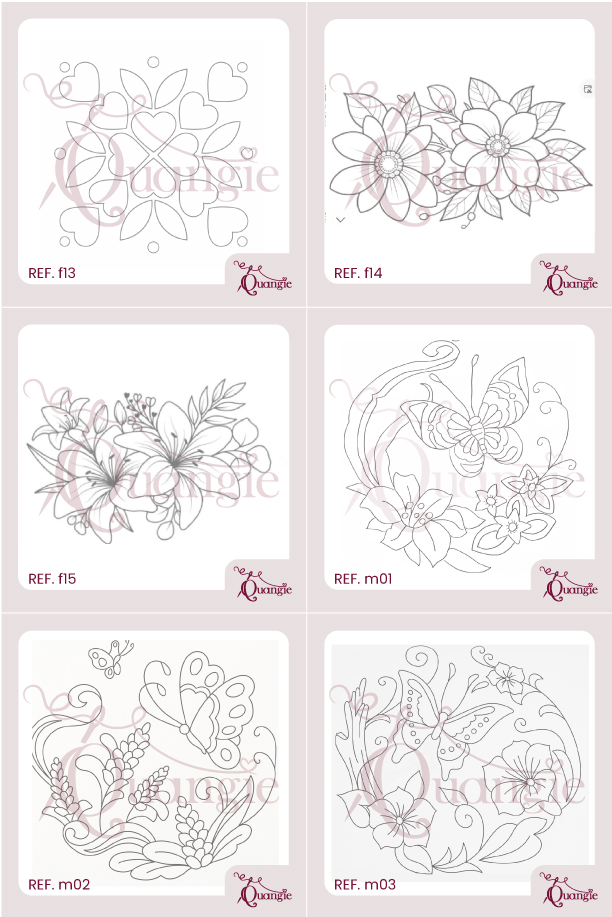
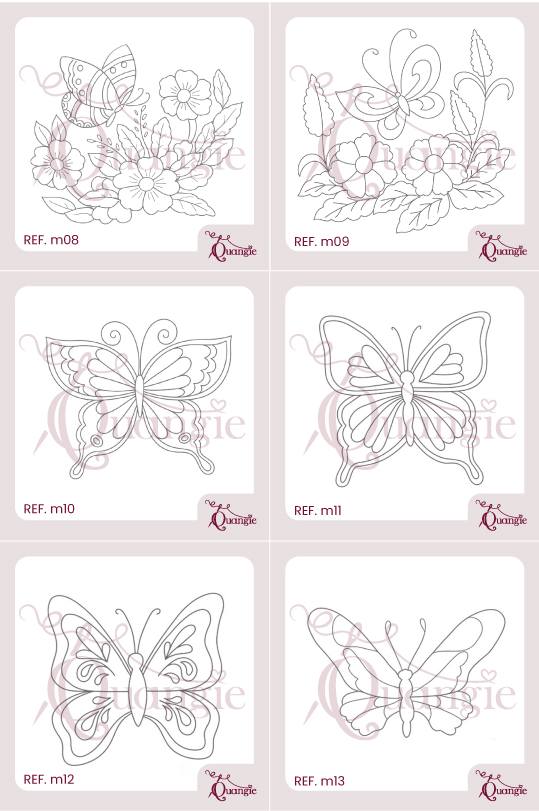
Galeria de imagenes

diff --git a/galeria-mariposas.html b/galeria-mariposas.html
@@ -1,0 +1,129 @@
+<!doctype html>
+<html lang="es">
+  <head>
+    <meta charset="utf-8">
+    <meta name="viewport" content="width=device-width, initial-scale=1">
+    <meta name="description" content="Galería ampliada de imágenes de Quangie">
+    <title>Quangie - Galería</title>
+
+    <link rel="shortcut icon" href="./assets/Logo.png">
+    <link rel="stylesheet" href="https://cdn.jsdelivr.net/npm/bootstrap@5.3.3/dist/css/bootstrap.min.css"
+      integrity="sha384-QWTKZyjpPEjISv5WaRU9OFeRpok6YctnYmDr5pNlyT2bRjXh0JMhjY6hW+ALEwIH" crossorigin="anonymous">
+    <link rel="stylesheet" href="style.css">
+  </head>
+  <body>
+    <header>
+      <nav class="navbar navbar-expand-lg border-bottom shadow-sm py-3">
+        <div class="container">
+          <a class="navbar-brand d-flex align-items-center" href="index.html">
+            <img src="./assets/Logotipo.png" alt="Quangie" style="height: 50px; width: auto;" class="me-2">
+          </a>
+          <button class="navbar-toggler" type="button" data-bs-toggle="collapse" data-bs-target="#navMenu"
+            aria-controls="navMenu" aria-expanded="false" aria-label="Toggle navigation">
+            <span class="navbar-toggler-icon"></span>
+          </button>
+          <div class="collapse navbar-collapse" id="navMenu">
+            <ul class="navbar-nav ms-auto mb-2 mb-lg-0">
+              <li class="nav-item"><a class="nav-link" href="index.html">Inicio</a></li>
+              <li class="nav-item"><a class="nav-link" href="tienda.html">Tienda</a></li>
+              <li class="nav-item"><a class="nav-link" href="tienda.html#ensamble">Ensamble</a></li>
+              <li class="nav-item"><a class="nav-link active" aria-current="page" href="galeria-mariposas.html">Galería</a></li>
+              <li class="nav-item"><a class="nav-link" href="proyectos.html">Proyectos Terminados</a></li>
+            </ul>
+          </div>
+        </div>
+      </nav>
+    </header>
+
+    <main class="py-5 bg-soft">
+      <section class="container">
+        <div class="text-center mb-4">
+          <h1 class="section-title" style="color: var(--quangie-primary);">Galería</h1>
+          <p class="text-muted mb-0">Continuación de las imágenes de la sección de plantillas.</p>
+        </div>
+
+        <section id="flores" class="mb-5">
+        <div class="mb-4">
+          <h2 class="h4 mb-2" style="color: var(--quangie-primary);">Flores</h2>
+          <div style="height:1px; background-color: rgba(118, 17, 55, 0.25); width: 100%;"></div>
+        </div>
+        <div class="row g-0 justify-content-center">
+          <div class="col-12 col-md-6">
+          <div class="card gallery-card"><img src="./assets/PlantillasFlores.jpg" alt="Imagen 1" class="w-100 h-auto"></div>
+          </div>
+          <div class="col-12 col-md-6">
+          <div class="card gallery-card"><img src="./assets/PlantillasFlores1.jpg" alt="Imagen 2" class="w-100 h-auto"></div>
+          </div>
+          <div class="col-12 col-md-6">
+          <div class="card gallery-card"><img src="./assets/PlantillasFlores2.jpg" alt="Imagen 3" class="w-100 h-auto"></div>
+          </div>
+          </section>
+          <section id="mariposas" class="mb-5">
+        <div class="mb-4">
+          <h2 class="h4 mb-2" style="color: var(--quangie-primary);">Mariposas</h2>
+          <div style="height:1px; background-color: rgba(118, 17, 55, 0.25); width: 100%;"></div>
+        </div>
+            <div class="col-12 col-md-6">
+          <div class="card gallery-card"><img src="./assets/PlantillasMariposas.jpg" alt="Imagen 3" class="w-100 h-auto"></div>
+          </div>
+           <div class="col-12 col-md-6">
+          <div class="card gallery-card"><img src="./assets/PlantillasMariposas1.jpg" alt="Imagen 3" class="w-100 h-auto"></div>
+          </div>
+          </section>
+          <section id="piecama" class="mb-5">
+        <div class="mb-4">
+          <h2 class="h4 mb-2" style="color: var(--quangie-primary);">Plantillas de Pie de Cama</h2>
+          <div style="height:1px; background-color: rgba(118, 17, 55, 0.25); width: 100%;"></div>
+        </div>
+          <div class="card gallery-card"><img src="./assets/PlantillasPieCama.jpg" alt="Imagen 3" class="w-100 h-auto"></div>
+          </div>
+          <div class="card gallery-card"><img src="./assets/PlantillasPieCama1.jpg" alt="Imagen 3" class="w-100 h-auto"></div>
+          </div>
+          </section>
+          <section id="navideñas" class="mb-5">
+        <div class="mb-4">
+          <h2 class="h4 mb-2" style="color: var(--quangie-primary);">Plantillas Navideñas</h2>
+          <div style="height:1px; background-color: rgba(118, 17, 55, 0.25); width: 100%;"></div>
+        </div>
+           <div class="col-12 col-md-6">
+          <div class="card gallery-card"><img src="./assets/PlantillasNavideñas.jpg" alt="Imagen 3" class="w-100 h-auto"></div>
+          </div>
+           <div class="col-12 col-md-6">
+          <div class="card gallery-card"><img src="./assets/PlantillasNavideñas1.jpg" alt="Imagen 3" class="w-100 h-auto"></div>
+          </div>
+          </section>
+          <section id="camino-navideño" class="mb-5">
+        <div class="mb-4">
+          <h2 class="h4 mb-2" style="color: var(--quangie-primary);">Caminos de Mesa Navideños</h2>
+          <div style="height:1px; background-color: rgba(118, 17, 55, 0.25); width: 100%;"></div>
+        </div>
+           <div class="col-12 col-md-6">
+          <div class="card gallery-card"><img src="./assets/PlantillasCaminoNavideño.jpg" alt="Imagen 3" class="w-100 h-auto"></div>
+          </div>
+
+        <div class="text-center mt-4">
+          <a href="tienda.html#plantillas-mariposas" class="btn btn-primary">Volver a la tienda</a>
+        </div>
+      </section>
+    </main>
+
+    <footer class="custom-footer">
+      <div class="container text-center">
+        <p class="mb-2">Quangie</p>
+        <p class="mb-0">Página creada con ❤️ por Daya</p>
+      </div>
+    </footer>
+
+    <script src="https://cdn.jsdelivr.net/npm/bootstrap@5.3.3/dist/js/bootstrap.bundle.min.js"
+      integrity="sha384-YvpcrYf0tY3lHB60NNkmXc5s9fDVZLESaAA55NDzOxhy9GkcIdslK1eN7N6jIeHz" crossorigin="anonymous"></script>
+    <script>
+      const navLinks = document.querySelectorAll('#navMenu .nav-link');
+      navLinks.forEach(function (link) {
+        link.addEventListener('click', function () {
+          navLinks.forEach(function (item) { item.classList.remove('active'); });
+          this.classList.add('active');
+        });
+      });
+    </script>
+  </body>
+</html>

diff --git a/tienda.html b/tienda.html
@@ -26,6 +26,8 @@
             <ul class="navbar-nav ms-auto mb-2 mb-lg-0">
               <li class="nav-item"><a class="nav-link" href="index.html">Inicio</a></li>
               <li class="nav-item"><a class="nav-link active" aria-current="page" href="tienda.html">Tienda</a></li>
+              <li class="nav-item"><a class="nav-link" href="tienda.html#ensamble">Ensamble</a></li>
+              <li class="nav-item"><a class="nav-link" href="galeria-mariposas.html">Galería</a></li>
               <li class="nav-item"><a class="nav-link" href="proyectos.html">Proyectos Terminados</a></li>
             </ul>
           </div>
@@ -191,19 +193,18 @@
           <h2 class="h4 mb-1">Imágenes</h2>
           <p class="text-muted">Las imágenes mostradas son opciones para tu elección. Ten presente el número de referencia al momento de realizar tu pedido. Si tienes alguna imagen diferente en mente, no dudes en contactarnos.</p>
         </div>
-        <div class="row g-3 justify-content-center">
+        <div class="row g-0 justify-content-center">
           <div class="col-12 col-md-6">
           <div class="card gallery-card"><img src="./assets/PlantillasFlores.jpg" alt="Imagen 1" class="w-100 h-auto"></div>
           </div>
           <div class="col-12 col-md-6">
-          <div class="card gallery-card"><img src="./assets/PlantillasFlores1.jpg" alt="Imagen 2" class="w-100 h-auto"></div>
-          </div>
-          <div class="col-12 col-md-6">
-            <span id="plantillas-mariposas" style="display:block;"></span>
-          <div class="card gallery-card"><img src="./assets/PlantillasMariposas1.jpg" alt="Imagen 3" class="w-100 h-auto"></div>
-          </div>
-          <div class="col-12 col-md-6">
-          <div class="card gallery-card"><img src="./assets/PlantillasMariposas2.jpg" alt="Imagen 4" class="w-100 h-auto"></div>
+            <div class="card gallery-card featured-gallery-card">
+              <img src="./assets/PlantillasMariposas.jpg" alt="Imagen 4" class="w-100 h-auto">
+              <div class="gallery-overlay text-white">
+                <p class="small mb-2 fw-semibold" style="letter-spacing:0.08em; text-transform:uppercase;">Explora la galería</p>
+                <a href="galeria-mariposas.html" class="btn btn-light btn-sm rounded-pill px-3">Ver más</a>
+              </div>
+            </div>
           </div>
         </div>
         </section>
@@ -213,11 +214,8 @@
           <h2 class="h4 mb-1">Ensamble</h2>
           <p class="text-muted mb-0">Convierte tus ideas en proyectos armados y listos para usar.</p>
           </div>
-          <a href="#imagenes" class="text-decoration-none">Ir a Imágenes</a>
         </div>
         <div class="container mt-4 mb-4 text-center">
-      <a href="#imagenes" class="text-decoration-none">← Volver a Imágenes</a>
-      <a href="#plantillas" class="text-decoration-none">← Volver a Plantillas</a> </div>
         <div class="row g-4">
           <div class="col-md-4">
           <div class="card product-card">
@@ -250,6 +248,8 @@
           </div>
           </div>
         </div>
+        <p></p>
+        <div><a href="#plantillas" class="text-decoration-none">← Volver a Plantillas</a> </div>
         </section>
 
       </div>

diff --git a/style.css b/style.css
@@ -407,6 +407,24 @@ header[data-bs-theme="dark"] {
   box-shadow: 0 18px 32px rgba(0,0,0,0.08);
 }
 
+.gallery-card {
+  position: relative;
+}
+
+.gallery-card .gallery-overlay {
+  position: absolute;
+  inset: auto 0 0 0;
+  padding: 1.25rem;
+  z-index: 1;
+  opacity: 0;
+  transform: translateY(0);
+  background: linear-gradient(180deg, rgba(255,255,255,0.02) 0%, rgba(0,0,0,0.72) 100%);
+}
+
+.gallery-card.featured-gallery-card .gallery-overlay {
+  opacity: 1;
+}
+
 .product-card img,
 .gallery-card img {
   width: 100%;

diff --git a/index.html b/index.html
@@ -26,6 +26,8 @@
             <ul class="navbar-nav ms-auto mb-2 mb-lg-0">
               <li class="nav-item"><a class="nav-link active" aria-current="page" href="index.html">Inicio</a></li>
               <li class="nav-item"><a class="nav-link" href="tienda.html">Tienda</a></li>
+              <li class="nav-item"><a class="nav-link" href="tienda.html#ensamble">Ensamble</a></li>
+              <li class="nav-item"><a class="nav-link" href="galeria-mariposas.html">Galería</a></li>
               <li class="nav-item"><a class="nav-link" href="proyectos.html">Proyectos Terminados</a></li>
             </ul>
           </div>

diff --git a/proyectos.html b/proyectos.html
@@ -26,6 +26,8 @@
             <ul class="navbar-nav ms-auto mb-2 mb-lg-0">
               <li class="nav-item"><a class="nav-link" href="index.html">Inicio</a></li>
               <li class="nav-item"><a class="nav-link" href="tienda.html">Tienda</a></li>
+              <li class="nav-item"><a class="nav-link" href="tienda.html#ensamble">Ensamble</a></li>
+              <li class="nav-item"><a class="nav-link" href="galeria-mariposas.html">Galería</a></li>
               <li class="nav-item"><a class="nav-link active" aria-current="page" href="proyectos.html">Proyectos Terminados</a></li>
             </ul>
           </div>